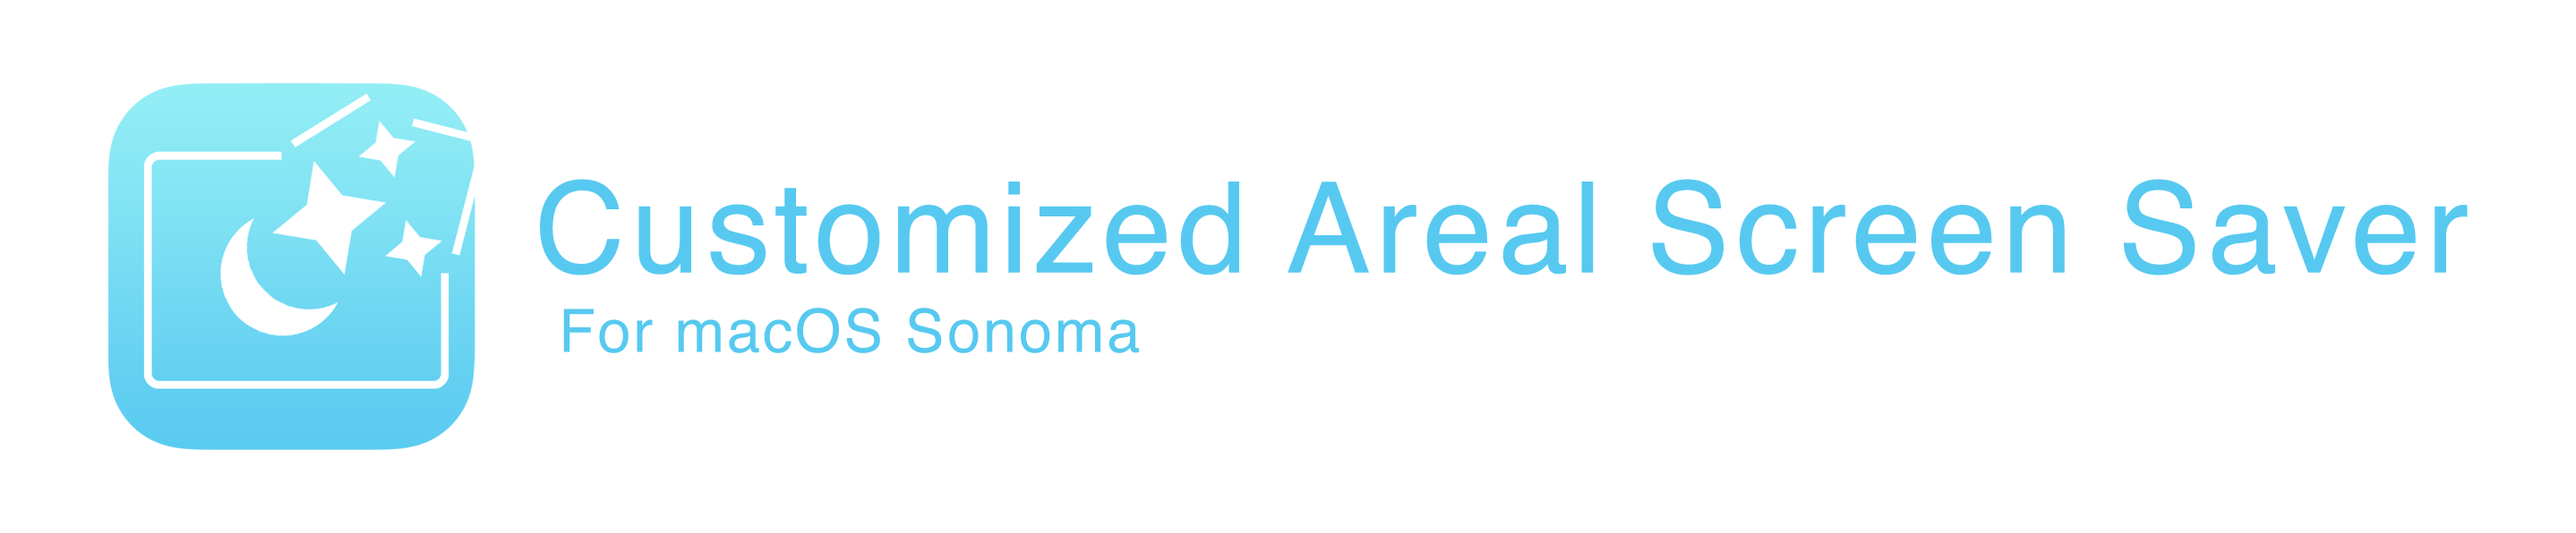
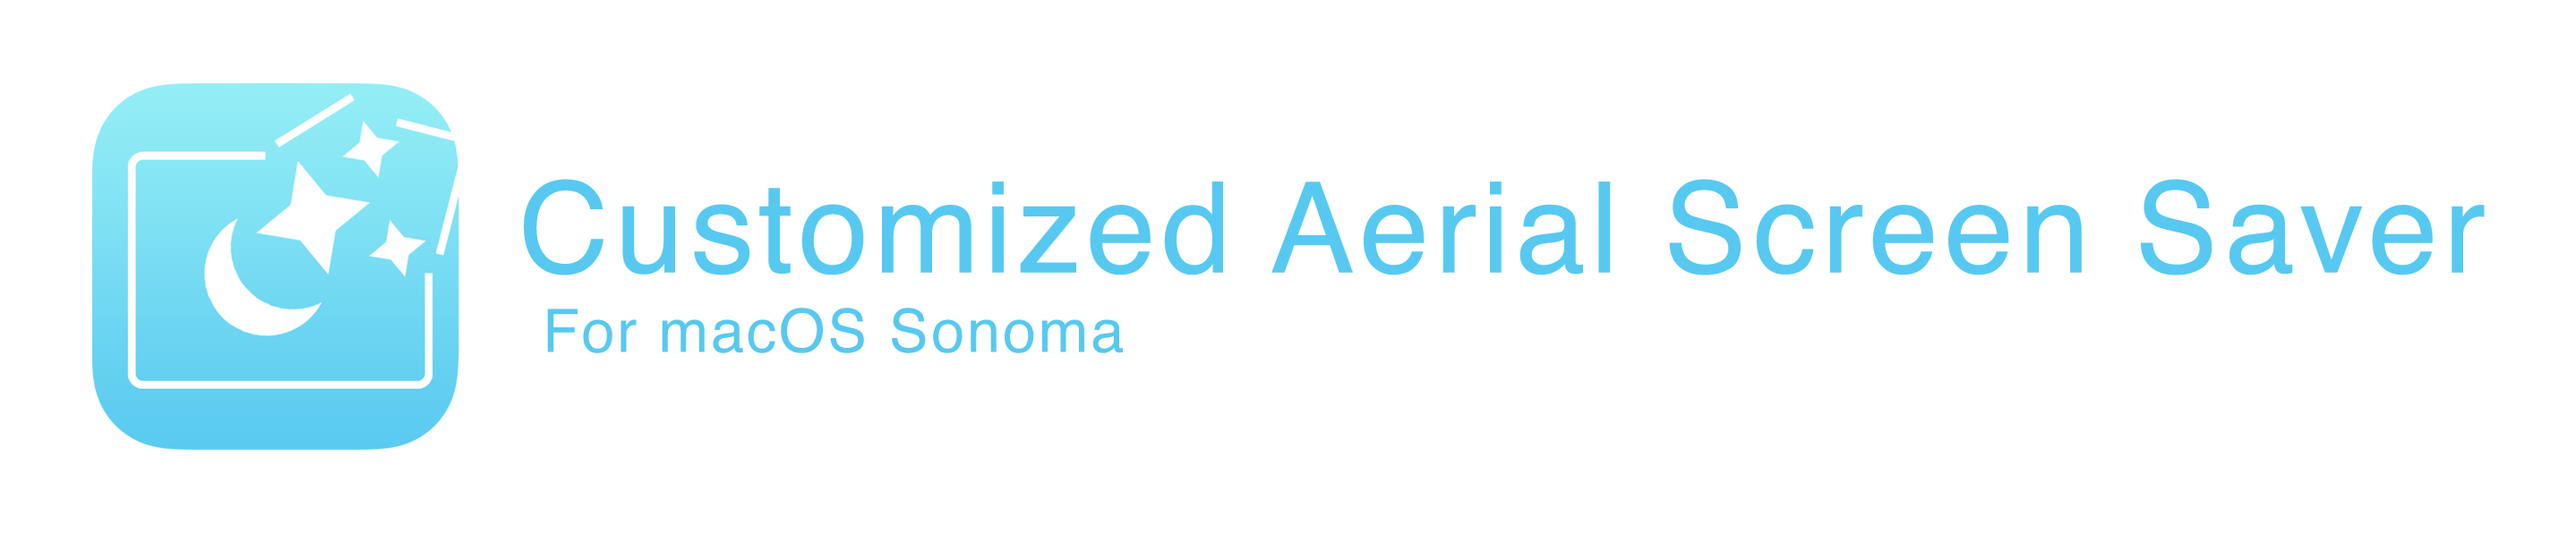
fix: misspelt 'aerial'

Changed region(s): [[0.0309, 0.151, 0.959, 0.8456]]

diff --git a/Customized Areal Screen Saver/CustomScreenSaverManager.swift b/Customized Areal Screen Saver/CustomScreenSaverManager.swift
@@ -1,6 +1,6 @@
 //
 //  CustomScreenSaverManager.swift
-//  Customized Areal Screen Saver
+//  Customized Aerial Screen Saver
 //
 //  Created by falcon on 2023/10/7.
 //
@@ -20,16 +20,16 @@ struct AssetsURLCollection{
 
 class CustomScreenSaverManager: ObservableObject {
     
-    @Published var customArealCategorySubcategories: Array<TVIdleScreenEntryCategorySubcategory> = []
+    @Published var customAerialCategorySubcategories: Array<TVIdleScreenEntryCategorySubcategory> = []
     
     private let fileManager: FileManager = FileManager()
-    private let customArealCategoryUUID: String = "C8EE7C2A-8025-4094-91C2-9637B6D2A64D"
+    private let customAerialCategoryUUID: String = "C8EE7C2A-8025-4094-91C2-9637B6D2A64D"
     private var userPassword: String? = nil
     
     var assetsURLCollection: AssetsURLCollection
     
     private var TVIdleScreenEntries: TVIdleScreenEntry?
-    private var customArealCategoryIndex: Int = -1
+    private var customAerialCategoryIndex: Int = -1
     
     
     private let defaultSystemAssetsRootPath = FileManager.default.urls(for: .applicationSupportDirectory, in: .systemDomainMask).first!.appending(path: "com.apple.idleassetsd").path(percentEncoded: false)
@@ -66,7 +66,7 @@ class CustomScreenSaverManager: ObservableObject {
         }
         self._checkEntriesFileExists()
         self._loadEntriesConfig()
-        self._checkCustomArealCategoryExists()
+        self._checkCustomAerialCategoryExists()
     }
     
     private func _createUserDataDirectory(customAssetsPreviewURL: URL, customAssetsVideoURL: URL){
@@ -109,22 +109,22 @@ class CustomScreenSaverManager: ObservableObject {
         }
     }
     
-    private func _updateCustomArealCategorySubcategories(){
-        print("self.customArealCategoryIndex \(self.customArealCategoryIndex)")
-        self.customArealCategorySubcategories = self.TVIdleScreenEntries!.categories[self.customArealCategoryIndex].subcategories
+    private func _updateCustomAerialCategorySubcategories(){
+        print("self.customAerialCategoryIndex \(self.customAerialCategoryIndex)")
+        self.customAerialCategorySubcategories = self.TVIdleScreenEntries!.categories[self.customAerialCategoryIndex].subcategories
     }
     
-    private func _checkCustomArealCategoryExists(){
-        self.customArealCategoryIndex = self.TVIdleScreenEntries!.categories.firstIndex { category in
-            category.id == self.customArealCategoryUUID
+    private func _checkCustomAerialCategoryExists(){
+        self.customAerialCategoryIndex = self.TVIdleScreenEntries!.categories.firstIndex { category in
+            category.id == self.customAerialCategoryUUID
         } ?? -1
 
-        if(self.customArealCategoryIndex == -1){
+        if(self.customAerialCategoryIndex == -1){
             self._backupDefaultEntries()
-            self._createCustomArealCategory()
+            self._createCustomAerialCategory()
             return
         }
-        self._updateCustomArealCategorySubcategories()
+        self._updateCustomAerialCategorySubcategories()
     }
     
     private func _checkEntriesFileExists(){
@@ -134,24 +134,24 @@ class CustomScreenSaverManager: ObservableObject {
         }
     }
     
-    private func _createCustomArealCategory(){
+    private func _createCustomAerialCategory(){
         let customEntryCategory = TVIdleScreenEntryCategory(
-            id: self.customArealCategoryUUID,
+            id: self.customAerialCategoryUUID,
             preferredOrder: 5,
             previewImage: "",
-            localizedNameKey: "Customized Areal",
+            localizedNameKey: "Customized Aerial",
             representativeAssetID: "",
             localizedDescriptionKey: "Customized videos hacked by XTLi",
             subcategories: []
         )
         self.TVIdleScreenEntries?.categories.append(customEntryCategory)
-        self.customArealCategoryIndex = self.TVIdleScreenEntries!.categories.firstIndex { category in
-            category.id == self.customArealCategoryUUID
+        self.customAerialCategoryIndex = self.TVIdleScreenEntries!.categories.firstIndex { category in
+            category.id == self.customAerialCategoryUUID
         } ?? -1
         _saveEntryChanges()
     }
     
-    private func _addNewArealAsset(newEntryAsset: TVIdleScreenEntryAsset, newSubcategory: TVIdleScreenEntryCategorySubcategory, originalAssetPath: String, originalAsserPreviewPath: String){
+    private func _addNewAerialAsset(newEntryAsset: TVIdleScreenEntryAsset, newSubcategory: TVIdleScreenEntryCategorySubcategory, originalAssetPath: String, originalAsserPreviewPath: String){
         let newAssetID = newEntryAsset.id
         do {
             try fileManager.copyItem(
@@ -170,7 +170,7 @@ class CustomScreenSaverManager: ObservableObject {
         }
         
         self.TVIdleScreenEntries?.assets.append(newEntryAsset)
-        self.TVIdleScreenEntries?.categories[self.customArealCategoryIndex].subcategories.append(newSubcategory)
+        self.TVIdleScreenEntries?.categories[self.customAerialCategoryIndex].subcategories.append(newSubcategory)
         _saveEntryChanges()
     }
     
@@ -182,7 +182,7 @@ class CustomScreenSaverManager: ObservableObject {
         } catch {
             print(error)
         }
-        self._updateCustomArealCategorySubcategories()
+        self._updateCustomAerialCategorySubcategories()
     }
     
     private func _formatURLToCommandLineSafe(_ originalURL: URL) -> String{
@@ -260,7 +260,7 @@ class CustomScreenSaverManager: ObservableObject {
             id: assetID,
             includeInShuffle: includeInShuffle,
             subcategories: [subcategoryID],
-            categories: [self.customArealCategoryUUID],
+            categories: [self.customAerialCategoryUUID],
             url4KSDR240FPS: customAssetPath
         )
         let newSubcategory = TVIdleScreenEntryCategorySubcategory(
@@ -272,14 +272,14 @@ class CustomScreenSaverManager: ObservableObject {
             localizedDescriptionKey: screenSaverDescription
         )
         
-        self._addNewArealAsset(newEntryAsset: newEntryAsset, newSubcategory: newSubcategory, originalAssetPath: videoPath, originalAsserPreviewPath: videoPreviewPath)
+        self._addNewAerialAsset(newEntryAsset: newEntryAsset, newSubcategory: newSubcategory, originalAssetPath: videoPath, originalAsserPreviewPath: videoPreviewPath)
     }
     
     func deleteScreenSaver(id: String){
         self.TVIdleScreenEntries?.assets.removeAll(where: { asset in
             asset.id == id
         })
-        self.TVIdleScreenEntries?.categories[self.customArealCategoryIndex].subcategories.removeAll(where: { subcategory in
+        self.TVIdleScreenEntries?.categories[self.customAerialCategoryIndex].subcategories.removeAll(where: { subcategory in
             subcategory.representativeAssetID == id
         })
         

diff --git a/Customized Areal Screen Saver/CustomArealsManagementView.swift b/Customized Areal Screen Saver/CustomArealsManagementView.swift
@@ -1,6 +1,6 @@
 //
-//  CustomArealsManagementView.swift
-//  Customized Areal Screen Saver
+//  CustomAerialsManagementView.swift
+//  Customized Aerial Screen Saver
 //
 //  Created by falcon on 2023/10/7.
 //
@@ -8,7 +8,7 @@
 import SwiftUI
 import AppKit
 
-struct CustomArealsManagementView: View {
+struct CustomAerialsManagementView: View {
 
     @ObservedObject var screenSaverManager: CustomScreenSaverManager
     
@@ -50,7 +50,7 @@ struct CustomArealsManagementView: View {
                 Button(action: {
                     self.showAddDialog = true
                 }) {
-                    Label("Add Custom Areal Screen Saver", systemImage: "plus")
+                    Label("Add Custom Aerial Screen Saver", systemImage: "plus")
                 }.padding()
                 Button(action: openCustomAssetsInFinder) {
                     Label("Open custom assets in finder", systemImage: "folder")
@@ -61,16 +61,16 @@ struct CustomArealsManagementView: View {
             }.frame(alignment: .top)
             ScrollView{
                 LazyVGrid(columns: columns){
-                    ForEach($screenSaverManager.customArealCategorySubcategories) { customArealCategorySubcategory in
+                    ForEach($screenSaverManager.customAerialCategorySubcategories) { customAerialCategorySubcategory in
                         VStack{
-                            Image(nsImage: loadImageFromURL(customArealCategorySubcategory.previewImage.wrappedValue))
+                            Image(nsImage: loadImageFromURL(customAerialCategorySubcategory.previewImage.wrappedValue))
                                 .resizable()
                                 .aspectRatio(contentMode: .fit)
                                 .frame(height: 75)
-                            Text(customArealCategorySubcategory.localizedNameKey.wrappedValue)
-                            Text(customArealCategorySubcategory.representativeAssetID.wrappedValue).font(.system(size: 8))
+                            Text(customAerialCategorySubcategory.localizedNameKey.wrappedValue)
+                            Text(customAerialCategorySubcategory.representativeAssetID.wrappedValue).font(.system(size: 8))
                             Button(action: {
-                                removeCustomScreenSaver(uuid: customArealCategorySubcategory.representativeAssetID.wrappedValue)
+                                removeCustomScreenSaver(uuid: customAerialCategorySubcategory.representativeAssetID.wrappedValue)
                             }) {
                                 Label("Delete", systemImage: "trash")
                                     .foregroundStyle(.red)
@@ -92,5 +92,5 @@ struct CustomArealsManagementView: View {
 }
 
 //#Preview {
-//    CustomArealsManagementView()
+//    CustomAerialsManagementView()
 //}

diff --git a/Customized Areal Screen Saver/ContentView.swift b/Customized Areal Screen Saver/ContentView.swift
@@ -1,6 +1,6 @@
 //
 //  ContentView.swift
-//  Customized Areal Screen Saver
+//  Customized Aerial Screen Saver
 //
 //  Created by falcon on 2023/10/7.
 //
@@ -69,7 +69,7 @@ struct ContentView: View {
     }
 
     var body: some View {
-        CustomArealsManagementView(screenSaverManager: screenSaverManager)
+        CustomAerialsManagementView(screenSaverManager: screenSaverManager)
             .sheet(isPresented: $showPaaswordPrompt) {
                 Text("Your password is required to make system-level changes.")
                     .padding()

diff --git a/Customized Areal Screen Saver/AddScreenSaverDialogView.swift b/Customized Areal Screen Saver/AddScreenSaverDialogView.swift
@@ -1,6 +1,6 @@
 //
 //  AddScreenSaverDialogView.swift
-//  Customized Areal Screen Saver
+//  Customized Aerial Screen Saver
 //
 //  Created by falcon on 2023/10/7.
 //
@@ -78,7 +78,7 @@ struct AddScreenSaverDialogView: View {
     
     
     var body: some View {
-        Text("Add a new Areal screen saver").padding()
+        Text("Add a new Aerial screen saver").padding()
         VStack{
             HStack{
                 TextField("Screen Saver Name", text: $screenSaverName)

diff --git a/Customized Areal Screen Saver/Customized_Areal_Screen_SaverApp.swift b/Customized Areal Screen Saver/Customized_Areal_Screen_SaverApp.swift
@@ -1,6 +1,6 @@
 //
-//  Customized_Areal_Screen_SaverApp.swift
-//  Customized Areal Screen Saver
+//  Customized_Aerial_Screen_SaverApp.swift
+//  Customized Aerial Screen Saver
 //
 //  Created by falcon on 2023/10/7.
 //
@@ -8,7 +8,7 @@
 import SwiftUI
 
 @main
-struct Customized_Areal_Screen_SaverApp: App {
+struct Customized_Aerial_Screen_SaverApp: App {
     var body: some Scene {
         WindowGroup {
             ContentView()

diff --git a/Customized Areal Screen Saver/TVIdleScreenEntries.swift b/Customized Areal Screen Saver/TVIdleScreenEntries.swift
@@ -1,6 +1,6 @@
 //
 //  TVIdleScreenEntries.swift
-//  Customized Areal Screen Saver
+//  Customized Aerial Screen Saver
 //
 //  Created by falcon on 2023/10/7.
 //

diff --git a/README.md b/README.md
@@ -1,12 +1,12 @@
-# Customized Areal Screen Saver
+# Customized Aerial Screen Saver
 <div style="width: 100%; text-align: center;">
   <img src="./docs/banner.png" />
 </div>
 
 ## Overview
-Since [macOS 14.0 Sonoma](https://www.apple.com/macos/sonoma/), Apple has brought Areal Screen Savers from tvOS to macOS, which provides stunning live screen savers when the device is locked.
+Since [macOS 14.0 Sonoma](https://www.apple.com/macos/sonoma/), Apple has brought Aerial Screen Savers from tvOS to macOS, which provides stunning live screen savers when the device is locked.
 
-However, it does not provide the ability to customize, so, here's a solution to that! With Customized Areal Screen Saver, you can add whatever the video you want for Areal Screen Saver!
+However, it does not provide the ability to customize, so, here's a solution to that! With Customized Aerial Screen Saver, you can add whatever the video you want for Aerial Screen Saver!
 
 ## Usage
 You'll need
@@ -16,10 +16,10 @@ You'll need
 Upon launch the app, you must enter your password in order to modify system resources.
 ![](./docs/launch.png)
 
-And click "Add Custom Areal Screen Saver", enter a name for the screen saver, then drag your video and preview image, click "Add" to add the customized screen saver
+And click "Add Custom Aerial Screen Saver", enter a name for the screen saver, then drag your video and preview image, click "Add" to add the customized screen saver
 ![](./docs/adding.png)
 
-You can view and delete existing Areal Screen Savers in the app.
+You can view and delete existing Aerial Screen Savers in the app.
 ![](./docs/management.png)
 
 A section "Customized Area" should appear in Screen Saver in System Settings.
@@ -34,25 +34,25 @@ Select it and enjoy!
 Given a password prompt exists in the app, regardless the app is open-sourced, a full disclosure is better than anything that you can do to earn everyone's trust, right?
 
 The work behind the app is simple
-All the areal screen saver assets are stored under `/Library/Application Support/com.apple.idleassetsd/`
+All the aerial screen saver assets are stored under `/Library/Application Support/com.apple.idleassetsd/`
 
 Where videos are under `/Library/Application Support/com.apple.idleassetsd/Customer/4KSDR240FPS`
 
 and preview images are under `/Library/Application Support/com.apple.idleassetsd/snapshots`
 
 And there goes a JSON 
-`/Library/Application Support/com.apple.idleassetsd/Customer/entries.json` which stores all areal screen saver's info
+`/Library/Application Support/com.apple.idleassetsd/Customer/entries.json` which stores all aerial screen saver's info
 
-By modifying the JSON, you can add whatever you want as an Areal Screen saver, that's why you'll need to provide your password in order to modify these files.
+By modifying the JSON, you can add whatever you want as an Aerial Screen saver, that's why you'll need to provide your password in order to modify these files.
 
 ## Known issues
-- It may take some time for the screen saver to appear in the System Settings, since it will take some time for macOS to update Areal Screen Saver's data under `/Library/Application Support/com.apple.idleassetsd/Aerial.sqlite*`
+- It may take some time for the screen saver to appear in the System Settings, since it will take some time for macOS to update Aerial Screen Saver's data under `/Library/Application Support/com.apple.idleassetsd/Aerial.sqlite*`
   - I am working on how to trigger the update of the database, however I have no clue at the moment.
 
 ## Community is everything!
 If you find this project useful and would like to support its development, you can
-  - Create an issue https://github.com/FalconLee1011/Customized-Areal-Screen-Saver/issues 
-  - Create an pull request https://github.com/FalconLee1011/Customized-Areal-Screen-Saver/pulls
+  - Create an issue https://github.com/FalconLee1011/Customized-Aerial-Screen-Saver/issues 
+  - Create an pull request https://github.com/FalconLee1011/Customized-Aerial-Screen-Saver/pulls
   - Star this project
   - Spread happiness! Share the app!
 
